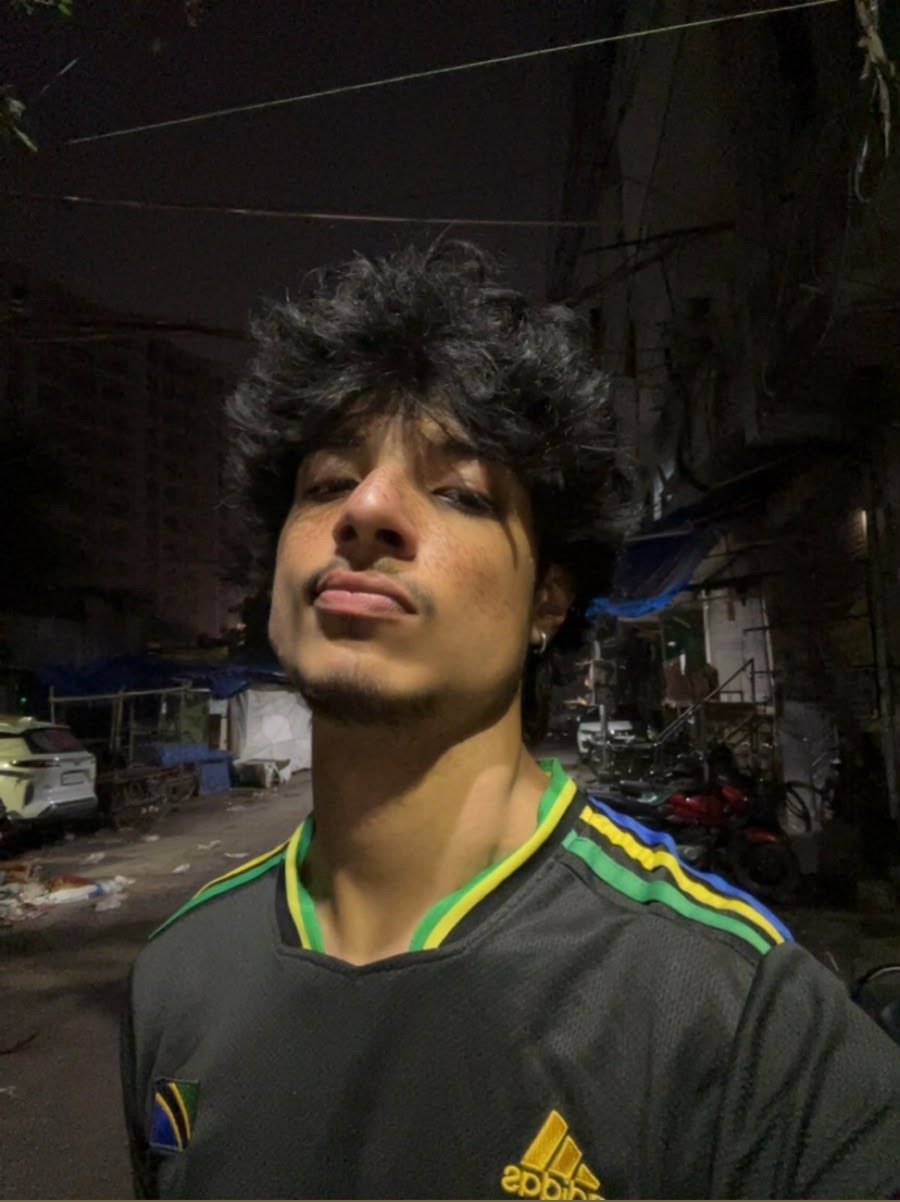
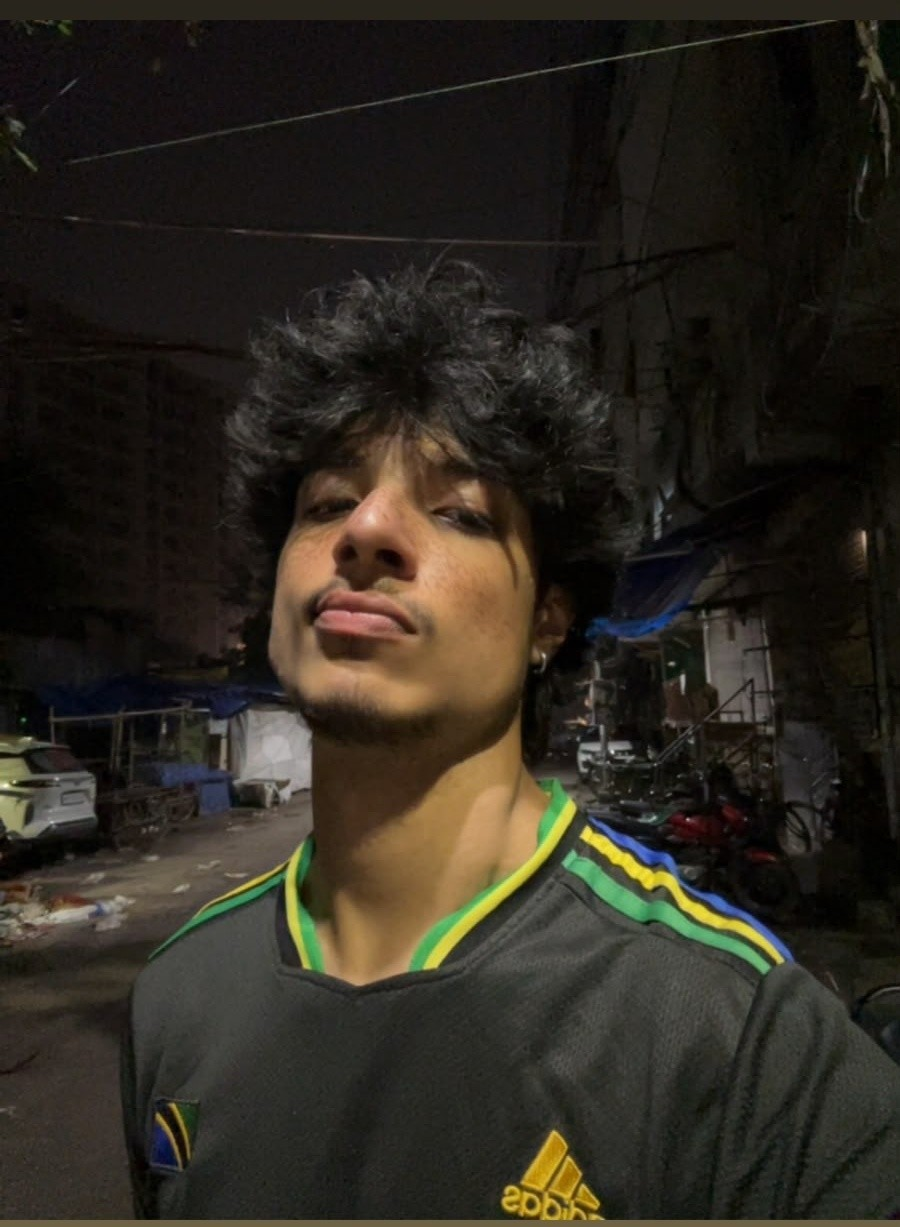
Perfect photo framing with slim archival mat, centered portrait crop, and rich walnut finish

diff --git a/src/Application/World/PhotoFrame.ts b/src/Application/World/PhotoFrame.ts
@@ -20,6 +20,7 @@ export default class PhotoFrame {
 
     // Materials
     frameMaterial: THREE.MeshBasicMaterial;
+    innerBevelMaterial: THREE.MeshBasicMaterial;
     matMaterial: THREE.MeshBasicMaterial;
     thumbMaterial: THREE.MeshBasicMaterial;
     photoMaterial: THREE.MeshBasicMaterial;
@@ -35,9 +36,9 @@ export default class PhotoFrame {
     restPosition: THREE.Vector3 = new THREE.Vector3(1380, -445, 1280);
     restRotation: THREE.Euler = new THREE.Euler(0, -0.32, 0); // ~ -18 deg turned toward camera
 
-    // Blurred 20px placeholder data-URI for zero-delay first render
+    // Clean portrait placeholder base64 data-URI
     placeholderDataUri =
[2 lines of base64/hex data omitted]
 
     constructor() {
         this.application = new Application();
@@ -53,24 +54,30 @@ export default class PhotoFrame {
     initMaterials() {
         // 1. Rich dark espresso walnut wood outer frame
         this.frameMaterial = new THREE.MeshBasicMaterial({
-            color: 0x241d18,
+            color: 0x1e1814,
             toneMapped: false,
         });
 
-        // 2. Fine textured cream archival mat (passé-partout)
+        // 2. Subtle warm inner bevel lip (accent edge)
+        this.innerBevelMaterial = new THREE.MeshBasicMaterial({
+            color: 0x3d3024,
+            toneMapped: false,
+        });
+
+        // 3. Fine archival cream mat border
         this.matMaterial = new THREE.MeshBasicMaterial({
-            color: 0xf6f3ed,
+            color: 0xfaf7f2,
             toneMapped: false,
         });
 
-        // 3. Blurred placeholder photo material
+        // 4. Blurred placeholder photo material
         this.thumbMaterial = new THREE.MeshBasicMaterial({
             color: 0xffffff,
             toneMapped: false,
             side: THREE.FrontSide,
         });
 
-        // 4. Sharp full-res photo material (starts transparent, fades in)
+        // 5. Sharp full-res photo material
         this.photoMaterial = new THREE.MeshBasicMaterial({
             color: 0xffffff,
             transparent: true,
@@ -79,17 +86,17 @@ export default class PhotoFrame {
             side: THREE.FrontSide,
         });
 
-        // 5. Very faint protective glass layer (< 0.08 opacity, soft reflection sheen)
+        // 6. Very faint protective glass layer (< 0.05 opacity)
         const glassCanvas = document.createElement('canvas');
         glassCanvas.width = 256;
         glassCanvas.height = 340;
         const gctx = glassCanvas.getContext('2d');
         if (gctx) {
             const grad = gctx.createLinearGradient(0, 0, 256, 340);
-            grad.addColorStop(0, 'rgba(255, 255, 255, 0.22)');
-            grad.addColorStop(0.35, 'rgba(255, 255, 255, 0.05)');
+            grad.addColorStop(0, 'rgba(255, 255, 255, 0.16)');
+            grad.addColorStop(0.35, 'rgba(255, 255, 255, 0.04)');
             grad.addColorStop(0.65, 'rgba(255, 255, 255, 0.0)');
-            grad.addColorStop(1, 'rgba(255, 255, 255, 0.15)');
+            grad.addColorStop(1, 'rgba(255, 255, 255, 0.12)');
             gctx.fillStyle = grad;
             gctx.fillRect(0, 0, 256, 340);
         }
@@ -98,7 +105,7 @@ export default class PhotoFrame {
         this.glassMaterial = new THREE.MeshBasicMaterial({
             map: this.glassTexture,
             transparent: true,
-            opacity: 0.05, // Faint glass layer keeping photo 100% crisp and readable
+            opacity: 0.04,
             depthWrite: false,
             side: THREE.FrontSide,
             toneMapped: false,
@@ -111,14 +118,15 @@ export default class PhotoFrame {
         this.frameGroup.rotation.copy(this.restRotation);
 
         this.tiltGroup = new THREE.Group();
-        // 10 degree backward tilt so the photo faces the camera naturally from desk
+        // 10 degree backward tilt so the photo faces the camera naturally from the desk
         this.tiltGroup.rotation.x = -0.1745;
         this.frameGroup.add(this.tiltGroup);
 
-        const frameW = 200;
-        const frameH = 260;
-        const frameD = 12;
-        const borderT = 20;
+        // Balanced proportions: photo fills the vast majority of the frame
+        const frameW = 186;
+        const frameH = 246;
+        const frameD = 10;
+        const borderT = 12; // Sleek 12-unit outer wood molding
 
         this.outerFrameGroup = new THREE.Group();
 
@@ -155,82 +163,81 @@ export default class PhotoFrame {
         rightBar.position.set(frameW / 2 - borderT / 2, frameH / 2, 0);
         this.outerFrameGroup.add(rightBar);
 
-        // Dark felt backboard behind the photo (Z = -4.5)
+        // Dark felt backboard behind the photo
         const backboard = new THREE.Mesh(
-            new THREE.BoxGeometry(frameW - 6, frameH - 6, 3),
+            new THREE.BoxGeometry(frameW - 4, frameH - 4, 2),
             new THREE.MeshBasicMaterial({ color: 0x141210, toneMapped: false })
         );
-        backboard.position.set(0, frameH / 2, -frameD / 2 + 1.5);
+        backboard.position.set(0, frameH / 2, -frameD / 2 + 1);
         this.outerFrameGroup.add(backboard);
 
         this.tiltGroup.add(this.outerFrameGroup);
 
-        // Cream Mat (Passé-Partout) with 120x160 Cutout at Z = 0.5
+        // Slim, elegant archival mat border (8 units) surrounding a large 146x206 opening
         this.matMesh = new THREE.Group();
-        const matOuterW = frameW - borderT * 2; // 160
-        const matOuterH = frameH - borderT * 2; // 220
-        const photoOpenW = 120;
-        const photoOpenH = 160;
-        const matMarginX = (matOuterW - photoOpenW) / 2; // 20
-        const matMarginY = (matOuterH - photoOpenH) / 2; // 30
-        const matYCenter = frameH / 2; // 130
+        const matOuterW = frameW - borderT * 2; // 162
+        const matOuterH = frameH - borderT * 2; // 222
+        const matMargin = 8; // Crisp slim 8-unit white border
+        const photoOpenW = matOuterW - matMargin * 2; // 146
+        const photoOpenH = matOuterH - matMargin * 2; // 206
+        const matYCenter = frameH / 2; // 123
 
         // Mat top border
         const mTop = new THREE.Mesh(
-            new THREE.PlaneGeometry(matOuterW, matMarginY),
+            new THREE.PlaneGeometry(matOuterW, matMargin),
             this.matMaterial
         );
-        mTop.position.set(0, matYCenter + photoOpenH / 2 + matMarginY / 2, 0.5);
+        mTop.position.set(0, matYCenter + photoOpenH / 2 + matMargin / 2, 0.5);
         this.matMesh.add(mTop);
 
         // Mat bottom border
         const mBottom = new THREE.Mesh(
-            new THREE.PlaneGeometry(matOuterW, matMarginY),
+            new THREE.PlaneGeometry(matOuterW, matMargin),
             this.matMaterial
         );
-        mBottom.position.set(0, matYCenter - photoOpenH / 2 - matMarginY / 2, 0.5);
+        mBottom.position.set(0, matYCenter - photoOpenH / 2 - matMargin / 2, 0.5);
         this.matMesh.add(mBottom);
 
         // Mat left border
         const mLeft = new THREE.Mesh(
-            new THREE.PlaneGeometry(matMarginX, photoOpenH),
+            new THREE.PlaneGeometry(matMargin, photoOpenH),
             this.matMaterial
         );
-        mLeft.position.set(-photoOpenW / 2 - matMarginX / 2, matYCenter, 0.5);
+        mLeft.position.set(-photoOpenW / 2 - matMargin / 2, matYCenter, 0.5);
         this.matMesh.add(mLeft);
 
         // Mat right border
         const mRight = new THREE.Mesh(
-            new THREE.PlaneGeometry(matMarginX, photoOpenH),
+            new THREE.PlaneGeometry(matMargin, photoOpenH),
             this.matMaterial
         );
-        mRight.position.set(photoOpenW / 2 + matMarginX / 2, matYCenter, 0.5);
+        mRight.position.set(photoOpenW / 2 + matMargin / 2, matYCenter, 0.5);
         this.matMesh.add(mRight);
 
         this.tiltGroup.add(this.matMesh);
 
-        // Photo Planes (Positioned right in the cutout opening)
+        // Photo Planes (146x206 large, beautifully filling the frame)
         // 1. Blurred placeholder plane at Z = 0.502 (in front of mat, zero z-fighting)
         const photoGeo = new THREE.PlaneGeometry(photoOpenW, photoOpenH);
         this.thumbMesh = new THREE.Mesh(photoGeo, this.thumbMaterial);
         this.thumbMesh.position.set(0, matYCenter, 0.502);
         this.tiltGroup.add(this.thumbMesh);
 
-        // 2. High-res photo plane at Z = 0.505 (sits in front, ready to fade in)
+        // 2. High-res photo plane at Z = 0.505
         this.photoMesh = new THREE.Mesh(photoGeo, this.photoMaterial);
         this.photoMesh.position.set(0, matYCenter, 0.505);
         this.tiltGroup.add(this.photoMesh);
 
-        // 3. Protective Glass Layer at Z = 0.8
+        // 3. Faint protective glass layer at Z = 0.75
         const glassGeo = new THREE.PlaneGeometry(matOuterW, matOuterH);
         this.glassMesh = new THREE.Mesh(glassGeo, this.glassMaterial);
-        this.glassMesh.position.set(0, matYCenter, 0.8);
+        this.glassMesh.position.set(0, matYCenter, 0.75);
         this.tiltGroup.add(this.glassMesh);
 
         // 4. Back Easel Leg (strut resting on desk at Y = -445)
-        const hingeY = 178;
-        const legLength = 196;
-        const legWidth = 16;
+        const hingeY = 168;
+        const legLength = 186;
+        const legWidth = 14;
         const legThickness = 4;
         const easelGeo = new THREE.BoxGeometry(legWidth, legLength, legThickness);
         easelGeo.translate(0, -legLength / 2, 0);
@@ -240,7 +247,7 @@ export default class PhotoFrame {
             new THREE.MeshBasicMaterial({ color: 0x1f1915, toneMapped: false })
         );
         this.easelMesh.position.set(0, hingeY, -frameD / 2);
-        this.easelMesh.rotation.x = 0.43; // ~ 24.6 degrees backwards
+        this.easelMesh.rotation.x = 0.43; // ~ 24.6 degrees backwards to touch desk surface
         this.outerFrameGroup.add(this.easelMesh);
 
         this.scene.add(this.frameGroup);
@@ -286,7 +293,6 @@ export default class PhotoFrame {
     }
 
     disableInteractions() {
-        // Completely disable raycasting on all frame meshes so clicks pass cleanly through
         const noopRaycast = () => {};
         this.frameGroup.traverse((child) => {
             child.raycast = noopRaycast;
@@ -297,7 +303,7 @@ export default class PhotoFrame {
     }
 
     loadTextures() {
-        // 1. Load blurred thumbnail immediately for zero-delay initial view
+        // 1. Load blurred thumbnail immediately for zero-delay first view
         const thumbImg = new Image();
         thumbImg.onload = () => {
             const tex = new THREE.Texture(thumbImg);
@@ -323,12 +329,11 @@ export default class PhotoFrame {
                 texture.magFilter = THREE.LinearFilter;
                 texture.anisotropy = 16;
 
-                // "Cover" fit logic for 3:4 frame cutout (120x160):
-                // Keeps Antriksh's face centered without any stretching or distortion
+                // "Cover" fit logic for 146x206 frame cutout:
                 const imgW = texture.image.width || 900;
-                const imgH = texture.image.height || 1202;
+                const imgH = texture.image.height || 1227;
                 const imgAspect = imgW / imgH;
-                const frameAspect = 120 / 160; // 0.75
+                const frameAspect = 146 / 206; // 0.7087
 
                 if (imgAspect > frameAspect) {
                     const scaleX = frameAspect / imgAspect;
@@ -337,7 +342,7 @@ export default class PhotoFrame {
                 } else {
                     const scaleY = imgAspect / frameAspect;
                     texture.repeat.set(1, scaleY);
-                    texture.offset.set(0, (1 - scaleY) * 0.45);
+                    texture.offset.set(0, (1 - scaleY) * 0.4);
                 }
                 texture.needsUpdate = true;
 
@@ -357,7 +362,6 @@ export default class PhotoFrame {
                     .onComplete(() => {
                         this.photoMaterial.transparent = false;
                         this.photoMaterial.needsUpdate = true;
-                        // Remove blurred placeholder once full photo is solid
                         if (this.thumbMesh.parent) {
                             this.thumbMesh.parent.remove(this.thumbMesh);
                         }
